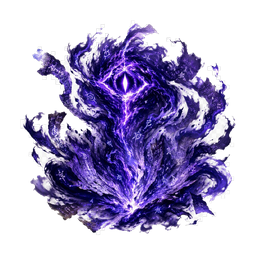
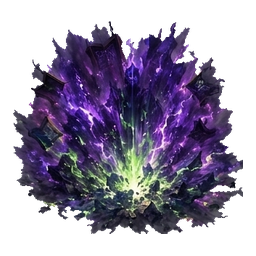
Régénération FX de sorts — Planche F2 (Lumière/Ténèbres/Support/Temps, sans halo)
Planche LLM image sur fond GRIS (#8C9298, anti-halo) → sheet_extract 256² →
savoir_interdit, echo_fantome, verbe_de_rowena, soin_blaireau,
serment_du_blaireau, fardeau_partage, protego_diabolica, tempus_echo,
reliquae_temporis. 9/9 PASS, QC damier net, zéro halo blanc.

Cellule 9 (reliquae_temporis) : watermark Gemini « ✦ » translucide, retiré par
masque elliptique + clone-patch (débris feather) avant re-extraction.

Chemins PNG inchangés → bump CACHE_VERSION v236→v237 (visibilité immédiate).
Clôt la série des 4 planches restantes (I2/I3/F1/F2) : 24 icônes + 18 FX.
check_cache_versions ✅, pwa-smoke ✅ (cache v237), smoke.js spell ✅ (11/11).

Claude-Session: https://claude.ai/code/session_01SVXjytjfze5sZ2HTmhf46m

diff --git a/sw.js b/sw.js
@@ -16,7 +16,7 @@
 //     individuel suffit pour eux.
 // =======================================================================
 
-const CACHE_VERSION = 'hogwarth-v236';
+const CACHE_VERSION = 'hogwarth-v237';
 const RUNTIME_CACHE = `${CACHE_VERSION}-runtime`;
 
 // Précache minimal (~1 Mo) : shell HTML/CSS/JS + premier visuel.
